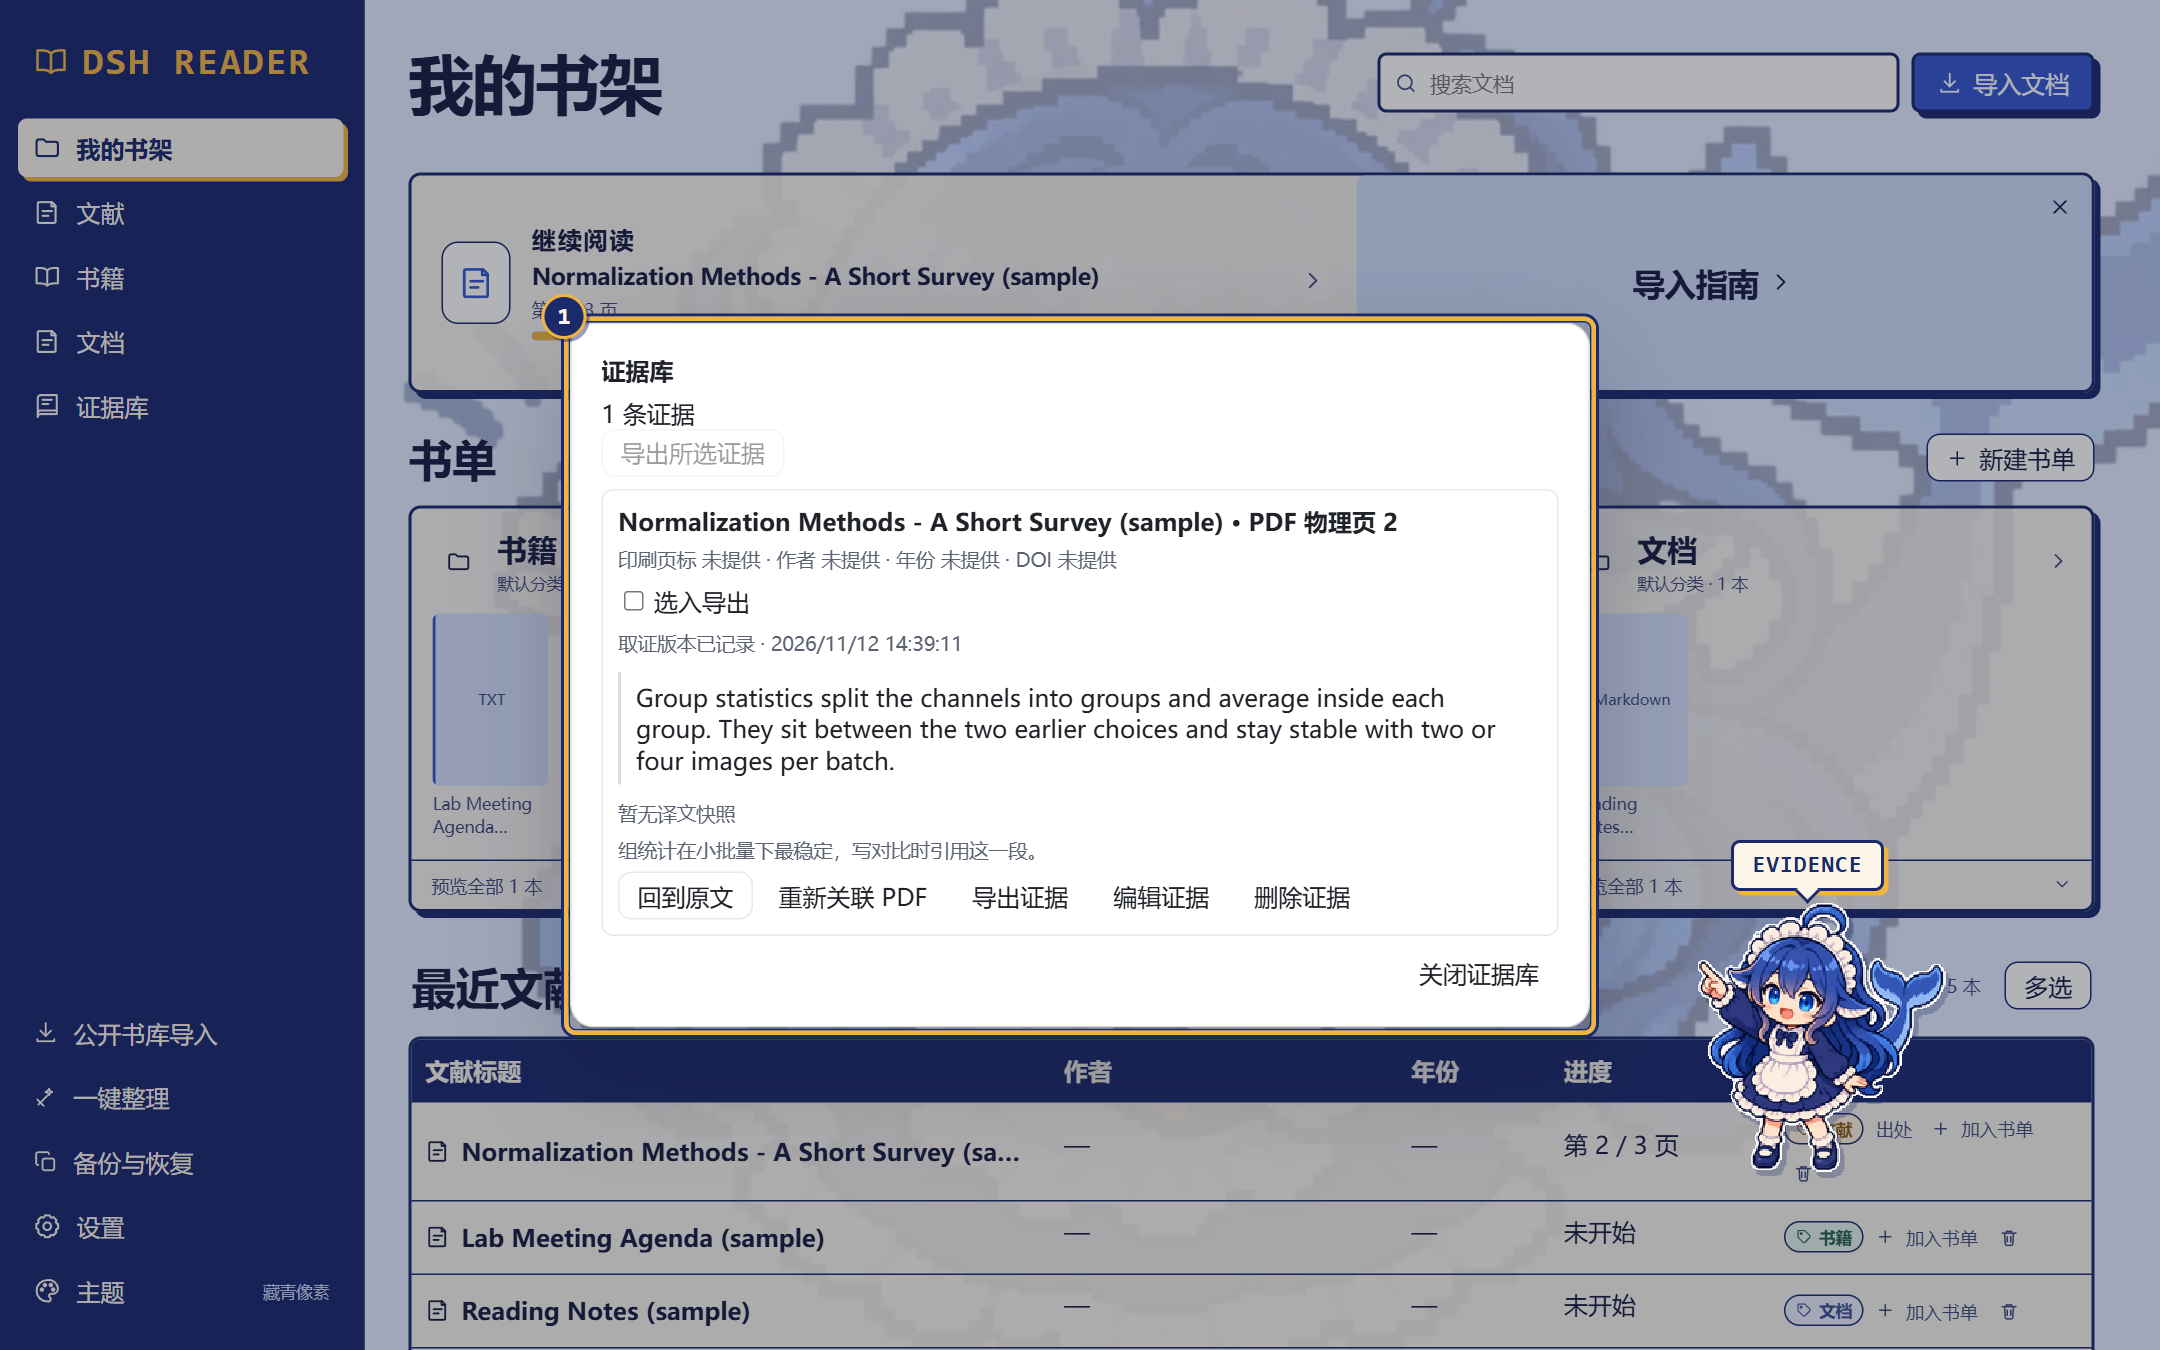
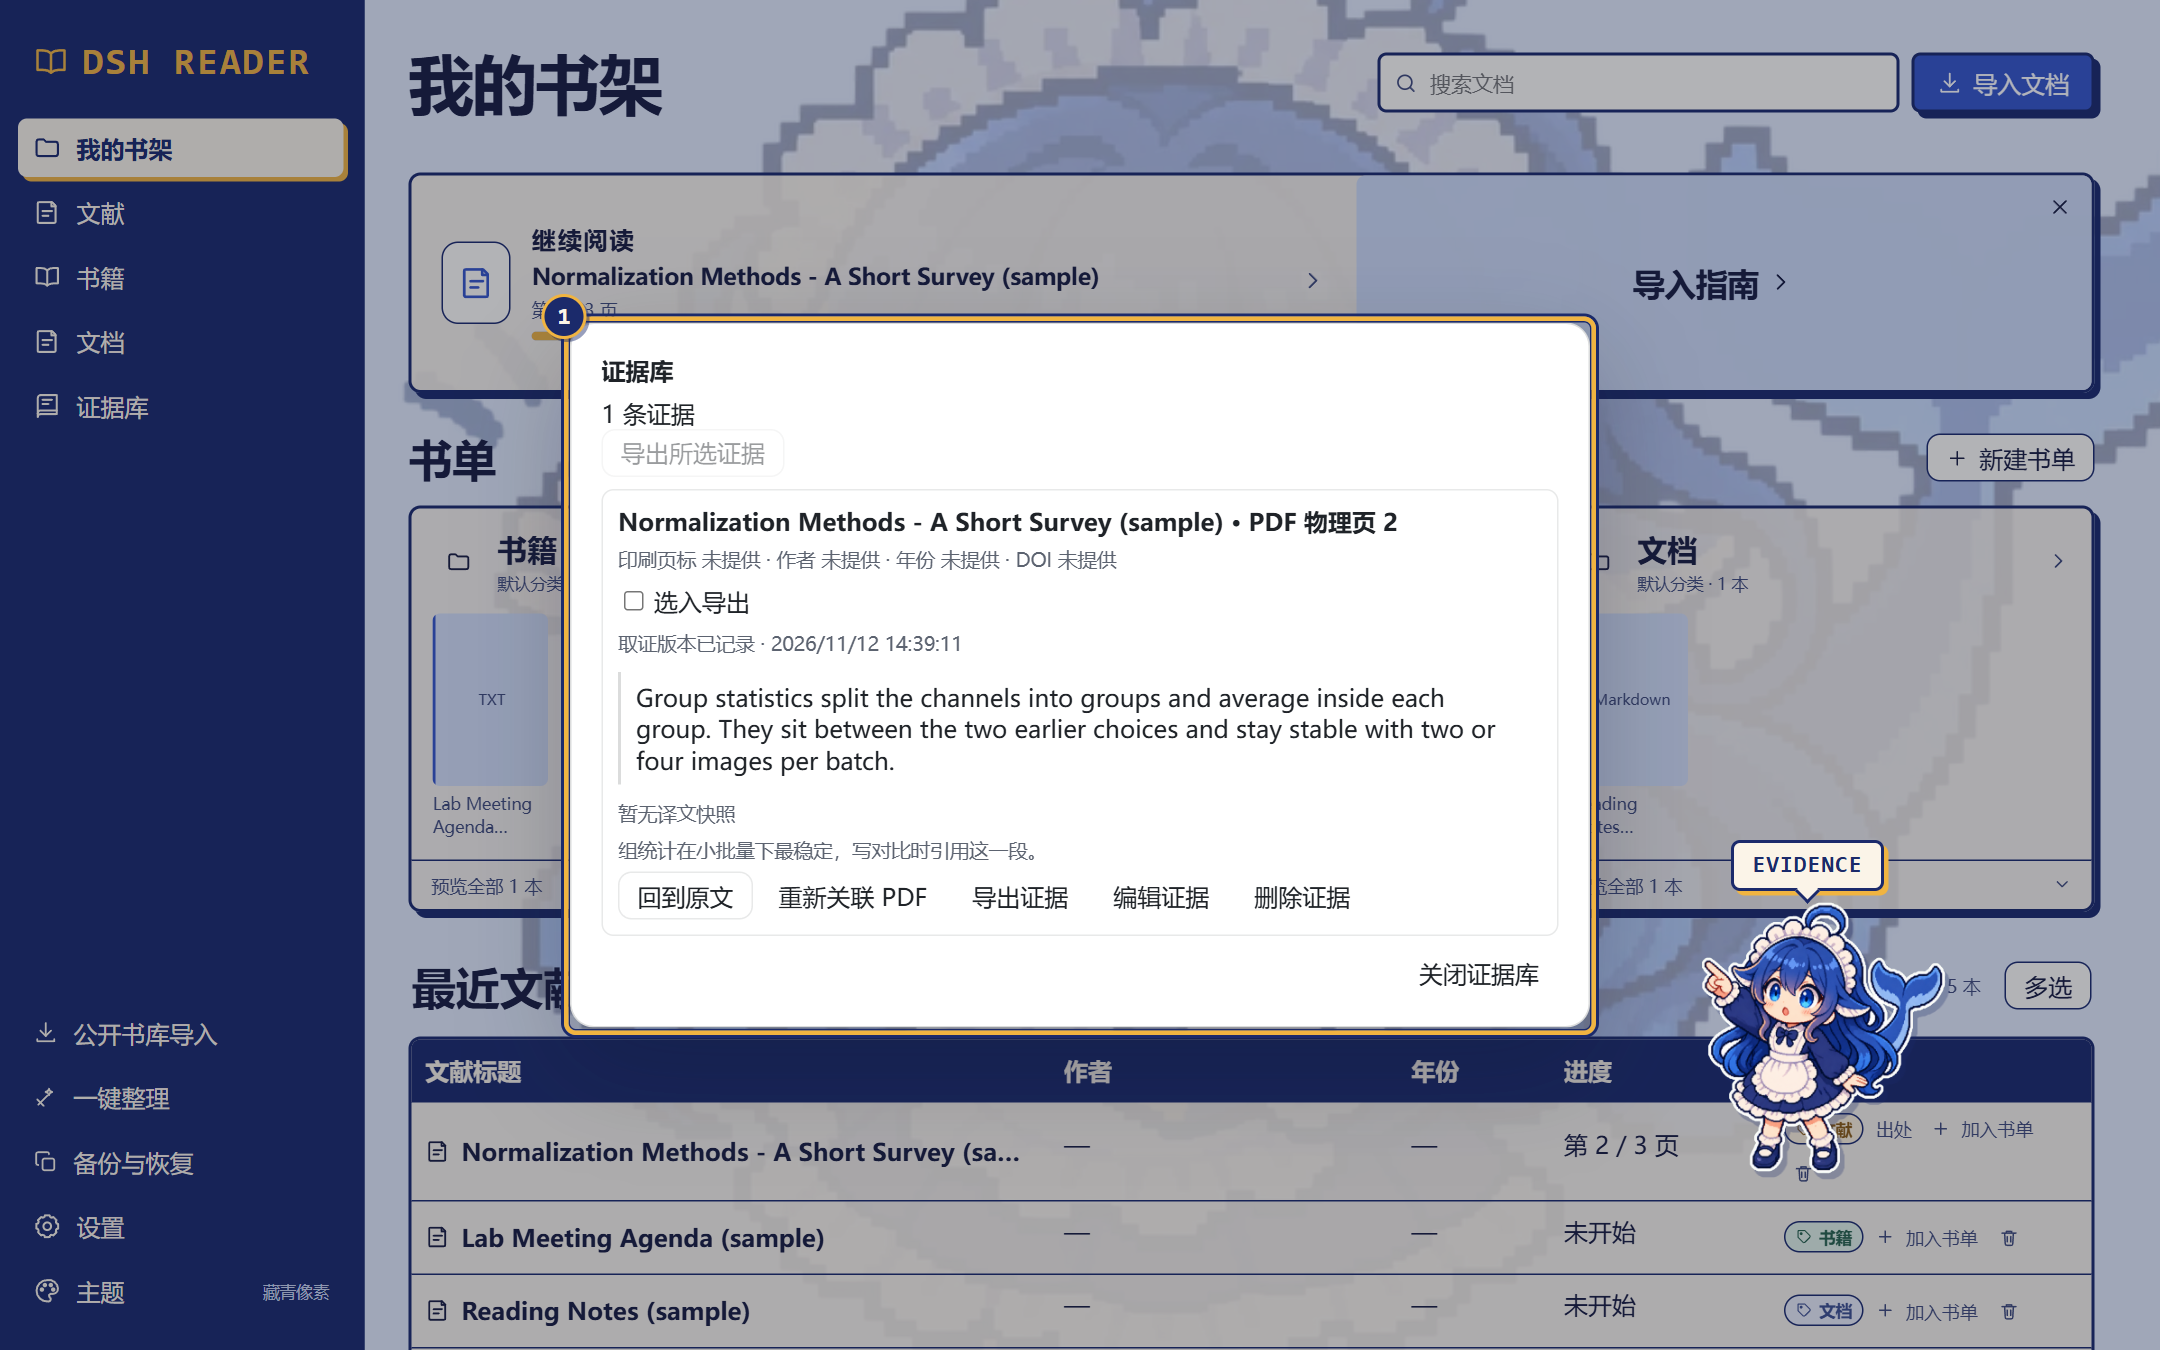
Replace the guide poses with full-size originals and new expressions
The four guide poses are now 1264 px transparent PNGs. The sign pose
smiles with closed eyes and the pointing-left pose looks surprised, so
the set no longer shares one face. Guide screenshots are recomposed.

Changed region(s): [[0.7755, 0.6533, 0.8995, 0.8711]]

diff --git a/images/whale-girl/README.md b/images/whale-girl/README.md
@@ -23,11 +23,11 @@ Die Originale dienen der Gestaltung und Dokumentation. Das Plugin lädt transpar
 
 ## Guide poses · 引导员动作 · Posen der Begleiterin
 
-Four poses guide readers through the step-by-step screenshots on the project page. They were produced with an image generator from the waving and note-taking stickers above, and the green background was removed locally. The files here are 200 × 200 transparent PNGs. The plugin does not bundle them.
+Four poses guide readers through the step-by-step screenshots on the project page. They were produced with an image generator from the waving and note-taking stickers above, and the green background was removed locally. The files here are 1264 × 1264 transparent PNGs. The plugin does not bundle them.
 
-四款动作用在项目主页的分步引导截图里。它们以上面的挥手和记笔记贴纸为参考，由图像生成工具生成，再在本地去掉绿色背景。这里的文件是 200 × 200 透明 PNG，不随插件安装。
+四款动作用在项目主页的分步引导截图里。它们以上面的挥手和记笔记贴纸为参考，由图像生成工具生成，再在本地去掉绿色背景。这里的文件是 1264 × 1264 透明 PNG，不随插件安装。
 
-Vier Posen begleiten die Schritt-für-Schritt-Bildschirmfotos auf der Projektseite. Sie wurden mit einem Bildgenerator aus den Stickern für Begrüßung und Notizen oben erzeugt, der grüne Hintergrund wurde lokal entfernt. Die Dateien hier sind transparente PNGs mit 200 × 200 Pixeln. Das Plugin enthält sie nicht.
+Vier Posen begleiten die Schritt-für-Schritt-Bildschirmfotos auf der Projektseite. Sie wurden mit einem Bildgenerator aus den Stickern für Begrüßung und Notizen oben erzeugt, der grüne Hintergrund wurde lokal entfernt. Die Dateien hier sind transparente PNGs mit 1264 × 1264 Pixeln. Das Plugin enthält sie nicht.
 
 | Illustration | 场景 | Where it appears | Einsatzort |
 | --- | --- | --- | --- |
